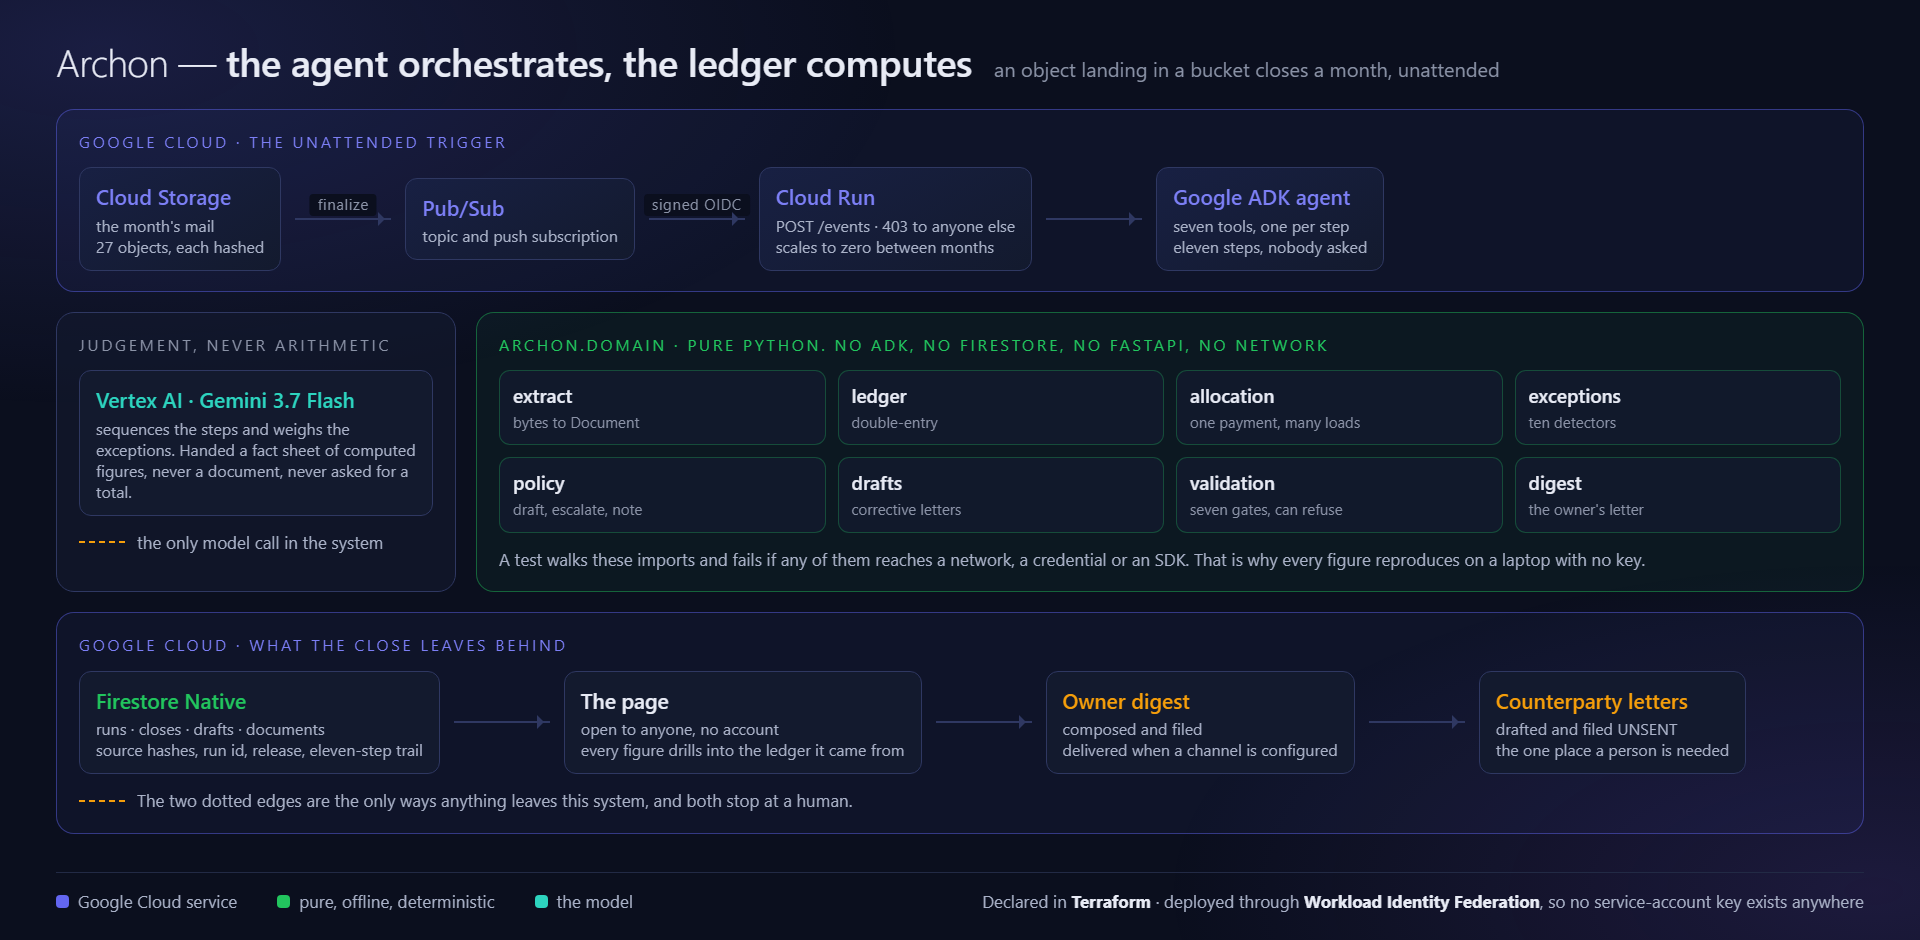
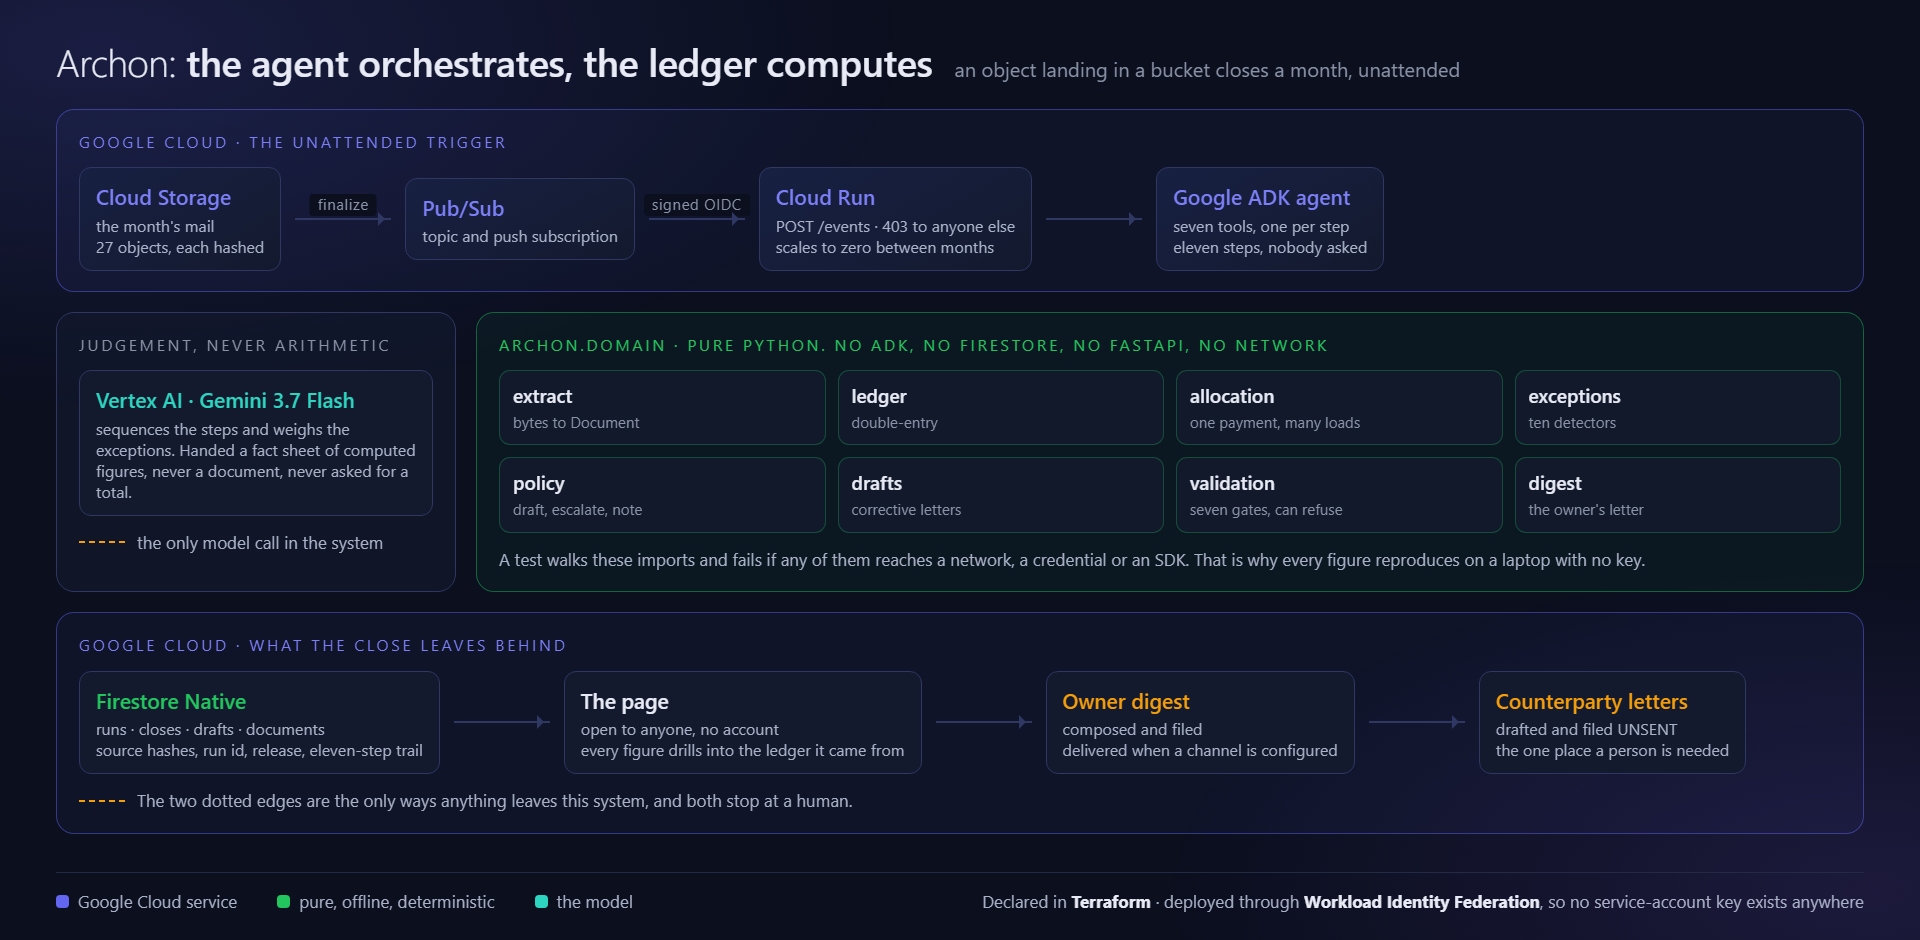
A second diagram: who is allowed to do what
The architecture diagram shows what the system does. Judges also score
architectural discipline, and the interesting half of that here is identity,
so video/infra.html draws the other picture.

Three paths, each with its real names and numbers read off infra/main.tf and
scripts/setup-cd.sh rather than described from memory. The deploy path, where a
GitHub Actions run mints a short-lived token only if BOTH the repository and
refs/heads/main match, so a fork gets nothing and no key exists to leak. The
trigger path, where archon-pusher mints an OIDC token whose audience is the
service's own URL and an anonymous POST gets a 403. And the runtime identity,
which holds exactly three roles and cannot write to the bucket, change IAM or
deploy.

The one deliberate exception is stated rather than hidden: run.invoker is
allUsers, because the page needs no account.

Both diagram titles carried an em dash. Nothing could see them, because they
are rendered into an image and the guard reads markdown, which is exactly how
they drifted from the house style.

Changed region(s): [[0.0938, 0.0309, 0.7812, 0.0926]]

diff --git a/video/infra.html b/video/infra.html
@@ -1,0 +1,200 @@
+<!doctype html>
+<html lang="en">
+<head>
+<meta charset="utf-8">
+<title>Archon — infrastructure and identity</title>
+<!--
+  The second diagram: not what the system does, but who is allowed to do it.
+
+  Every name, role and number here is read off infra/main.tf and
+  scripts/setup-cd.sh rather than described from memory. If a role is written
+  on this page it is granted in the Terraform, and if it is not granted it is
+  not on the page. Rendered to PNG by video/shoot-stills.py.
+-->
+<style>
+  :root {
+    --bg: #0b0f1e; --card: #131a2e; --card-hi: #182043;
+    --border: #222a45; --border-strong: #2f3862;
+    --text: #e8ebf5; --text-2: #aab2c8; --text-3: #8b93a7;
+    --primary: #6366f1; --primary-hi: #7c7ff5; --violet: #8b5cf6;
+    --positive: #22c55e; --cyan: #2dd4bf; --warning: #f59e0b; --error: #f43f5e;
+  }
+  * { margin: 0; padding: 0; box-sizing: border-box; }
+  html, body {
+    width: 1920px; height: 920px; background: var(--bg); color: var(--text);
+    font: 400 19px/1.42 "Segoe UI", -apple-system, system-ui, sans-serif;
+    -webkit-font-smoothing: antialiased; overflow: hidden;
+  }
+  body::before {
+    content: ""; position: fixed; inset: -20%;
+    background:
+      radial-gradient(44% 40% at 16% 16%, rgba(99,102,241,.16), transparent 68%),
+      radial-gradient(40% 38% at 86% 84%, rgba(34,197,94,.10), transparent 66%);
+  }
+  main { position: relative; padding: 32px 52px 24px; height: 100%; display: flex; flex-direction: column; }
+
+  header { display: flex; align-items: baseline; gap: 20px; margin-bottom: 18px; }
+  header h1 { font-size: 36px; font-weight: 300; letter-spacing: -.01em; }
+  header h1 b { font-weight: 600; }
+  header .sub { font-size: 19px; color: var(--text-3); }
+
+  .cols { display: grid; grid-template-columns: 1fr 1fr; gap: 18px; }
+  .zone {
+    border: 1px solid var(--border-strong); border-radius: 16px; padding: 18px 20px;
+    background: rgba(19,26,46,.62);
+  }
+  .zone .z-title {
+    font-size: 15px; letter-spacing: .16em; text-transform: uppercase;
+    color: var(--text-3); margin-bottom: 12px;
+  }
+  .zone.deploy { border-color: rgba(139,92,246,.44); background: rgba(139,92,246,.05); }
+  .zone.deploy .z-title { color: var(--violet); }
+  .zone.runtime { border-color: rgba(34,197,94,.4); background: rgba(34,197,94,.045); }
+  .zone.runtime .z-title { color: var(--positive); }
+  .zone.trigger { border-color: rgba(99,102,241,.44); background: rgba(99,102,241,.05); }
+  .zone.trigger .z-title { color: var(--primary-hi); }
+
+  .chain { display: flex; align-items: center; gap: 10px; flex-wrap: nowrap; }
+  .node {
+    border: 1px solid var(--border-strong); border-radius: 11px;
+    padding: 11px 14px; background: var(--card); flex: 1;
+  }
+  .node .n { font-size: 19px; font-weight: 500; }
+  .node .d { font-size: 15px; color: var(--text-2); margin-top: 2px; line-height: 1.3; }
+  .node.sa { background: linear-gradient(150deg, var(--card-hi), var(--card)); }
+  .node.sa .n { color: var(--cyan); font-family: ui-monospace, "Cascadia Mono", monospace; font-size: 17px; }
+  .arw { flex: 0 0 34px; height: 2px; background: var(--border-strong); position: relative; }
+  .arw::after {
+    content: ""; position: absolute; right: -1px; top: -6px;
+    border: 6px solid transparent; border-left-color: var(--border-strong);
+  }
+
+  .roles { margin-top: 10px; display: flex; flex-wrap: wrap; gap: 7px; }
+  .role {
+    font-family: ui-monospace, "Cascadia Mono", monospace; font-size: 14px;
+    padding: 5px 11px; border-radius: 7px;
+    background: rgba(34,197,94,.08); border: 1px solid rgba(34,197,94,.3); color: var(--text);
+  }
+  .role.deny { background: rgba(244,63,94,.07); border-color: rgba(244,63,94,.32); color: var(--text-2); }
+  .role.warn { background: rgba(245,158,11,.08); border-color: rgba(245,158,11,.32); }
+
+  .note { margin-top: 11px; font-size: 15px; color: var(--text-2); line-height: 1.4; }
+  .note b { color: var(--text); }
+
+  .wide { grid-column: 1 / -1; }
+  .facts { display: grid; grid-template-columns: repeat(5, 1fr); gap: 12px; margin-top: 4px; }
+  .fact { border: 1px solid var(--border); border-radius: 10px; padding: 11px 13px; background: rgba(19,26,46,.8); }
+  .fact .k { font-size: 13px; letter-spacing: .12em; text-transform: uppercase; color: var(--text-3); }
+  .fact .v { font-size: 21px; font-weight: 500; margin-top: 3px; }
+  .fact .v.ok { color: var(--positive); }
+
+  footer {
+    margin-top: auto; padding-top: 14px; border-top: 1px solid var(--border);
+    font-size: 16px; color: var(--text-2); display: flex; gap: 34px; align-items: center;
+  }
+  footer b { color: var(--text); }
+</style>
+</head>
+<body>
+<main>
+  <header>
+    <h1>Archon: <b>who is allowed to do what</b></h1>
+    <span class="sub">every role below is granted in infra/main.tf; nothing here is granted anywhere else</span>
+  </header>
+
+  <div class="cols">
+
+    <div class="zone deploy wide">
+      <div class="z-title">Deploy path · no key exists anywhere</div>
+      <div class="chain">
+        <div class="node"><div class="n">GitHub Actions</div>
+          <div class="d">push to main, after CI is green</div></div>
+        <div class="arw"></div>
+        <div class="node"><div class="n">Workload Identity Federation</div>
+          <div class="d">provider condition on <b>attribute.repository</b> AND
+            <b>attribute.ref = refs/heads/main</b>. A fork, or any other branch, mints nothing.</div></div>
+        <div class="arw"></div>
+        <div class="node sa"><div class="n">archon-deploy</div>
+          <div class="d">short-lived token, impersonated per run</div></div>
+        <div class="arw"></div>
+        <div class="node"><div class="n">Terraform apply</div>
+          <div class="d">the only thing that changes the deployment</div></div>
+      </div>
+      <div class="note">
+        There is <b>no service-account key in this project</b>, no key in a secret and
+        none to leak. The Cloud Run console shows the revision as deployed by
+        <b>archon-deploy@…iam.gserviceaccount.com</b>, which is that claim made visible.
+      </div>
+    </div>
+
+    <div class="zone trigger">
+      <div class="z-title">Trigger path · the door into the system</div>
+      <div class="chain">
+        <div class="node"><div class="n">Cloud Storage</div>
+          <div class="d">object finalize on the mail prefix</div></div>
+        <div class="arw"></div>
+        <div class="node"><div class="n">Pub/Sub</div>
+          <div class="d">topic, then push subscription</div></div>
+      </div>
+      <div class="chain" style="margin-top:10px">
+        <div class="node sa"><div class="n">archon-pusher</div>
+          <div class="d">mints the OIDC token, audience is this service's own URL</div></div>
+        <div class="arw"></div>
+        <div class="node"><div class="n">POST /events</div>
+          <div class="d">verifies the Google signature and the audience</div></div>
+      </div>
+      <div class="roles">
+        <span class="role">roles/pubsub.publisher <span style="color:var(--text-3)">to the GCS agent</span></span>
+        <span class="role">roles/iam.serviceAccountTokenCreator <span style="color:var(--text-3)">to Pub/Sub</span></span>
+        <span class="role deny">anonymous POST /events → 403</span>
+      </div>
+    </div>
+
+    <div class="zone runtime">
+      <div class="z-title">Runtime identity · least privilege, and what it cannot do</div>
+      <div class="chain">
+        <div class="node sa" style="flex:0 0 260px"><div class="n">archon-runtime</div>
+          <div class="d">the identity the container runs as</div></div>
+        <div class="arw"></div>
+        <div class="node"><div class="n">Three grants, and only three</div>
+          <div class="d">read the mail, write the trail, call the model</div></div>
+      </div>
+      <div class="roles">
+        <span class="role">roles/storage.objectViewer</span>
+        <span class="role">roles/datastore.user</span>
+        <span class="role">roles/aiplatform.user</span>
+      </div>
+      <div class="roles">
+        <span class="role deny">cannot write to the bucket</span>
+        <span class="role deny">cannot change IAM</span>
+        <span class="role deny">cannot deploy</span>
+        <span class="role warn">roles/run.invoker is allUsers, deliberately: the page needs no account</span>
+      </div>
+    </div>
+
+    <div class="zone wide">
+      <div class="z-title">Cloud Run, as declared</div>
+      <div class="facts">
+        <div class="fact"><div class="k">Request timeout</div><div class="v">600s</div></div>
+        <div class="fact"><div class="k">Min instances</div><div class="v ok">0</div></div>
+        <div class="fact"><div class="k">Max instances</div><div class="v">4</div></div>
+        <div class="fact"><div class="k">Region</div><div class="v">us-central1</div></div>
+        <div class="fact"><div class="k">State</div><div class="v ok">Firestore Native</div></div>
+      </div>
+      <div class="note">
+        Min zero is the shape of a business that closes its books twelve times a year, and it is
+        also why the event path carries a lease: a container can be taken away mid-close, so the
+        claim on a month is a compare-and-set on an attempt counter, and a month that fails three
+        times is recorded <b>dead-letter</b> rather than retried until the message expires.
+      </div>
+    </div>
+  </div>
+
+  <footer>
+    <span>Declared in <b>Terraform</b>, applied only by <b>archon-deploy</b>, and the runtime holds
+      <b>three roles</b>.</span>
+    <span style="margin-left:auto">github.com/upgradedev/archon-gcp-agentic</span>
+  </footer>
+</main>
+</body>
+</html>

diff --git a/video/architecture.html b/video/architecture.html
@@ -106,7 +106,7 @@
 <body>
 <main>
   <header>
-    <h1>Archon — <b>the agent orchestrates, the ledger computes</b></h1>
+    <h1>Archon: <b>the agent orchestrates, the ledger computes</b></h1>
     <span class="sub">an object landing in a bucket closes a month, unattended</span>
   </header>
 

diff --git a/video/shoot-stills.py b/video/shoot-stills.py
@@ -63,6 +63,14 @@ def main() -> int:
         page.screenshot(path=str(out / "00-architecture.png"))
         print("00-architecture.png")
 
+        # 2b. And the infrastructure half of it: not what the system does, but
+        #     who is allowed to do it. Every role on it is read off main.tf.
+        page.set_viewport_size({"width": 1920, "height": 920})
+        page.goto((HERE / "infra.html").as_uri(), wait_until="networkidle")
+        page.wait_for_timeout(700)
+        page.screenshot(path=str(out / "00-infrastructure.png"))
+        print("00-infrastructure.png")
+
         # 3. The opening slides, held long enough for their choreography to land.
         page.set_viewport_size(WIDE)
         page.goto((HERE / "deck.html").as_uri(), wait_until="networkidle")
